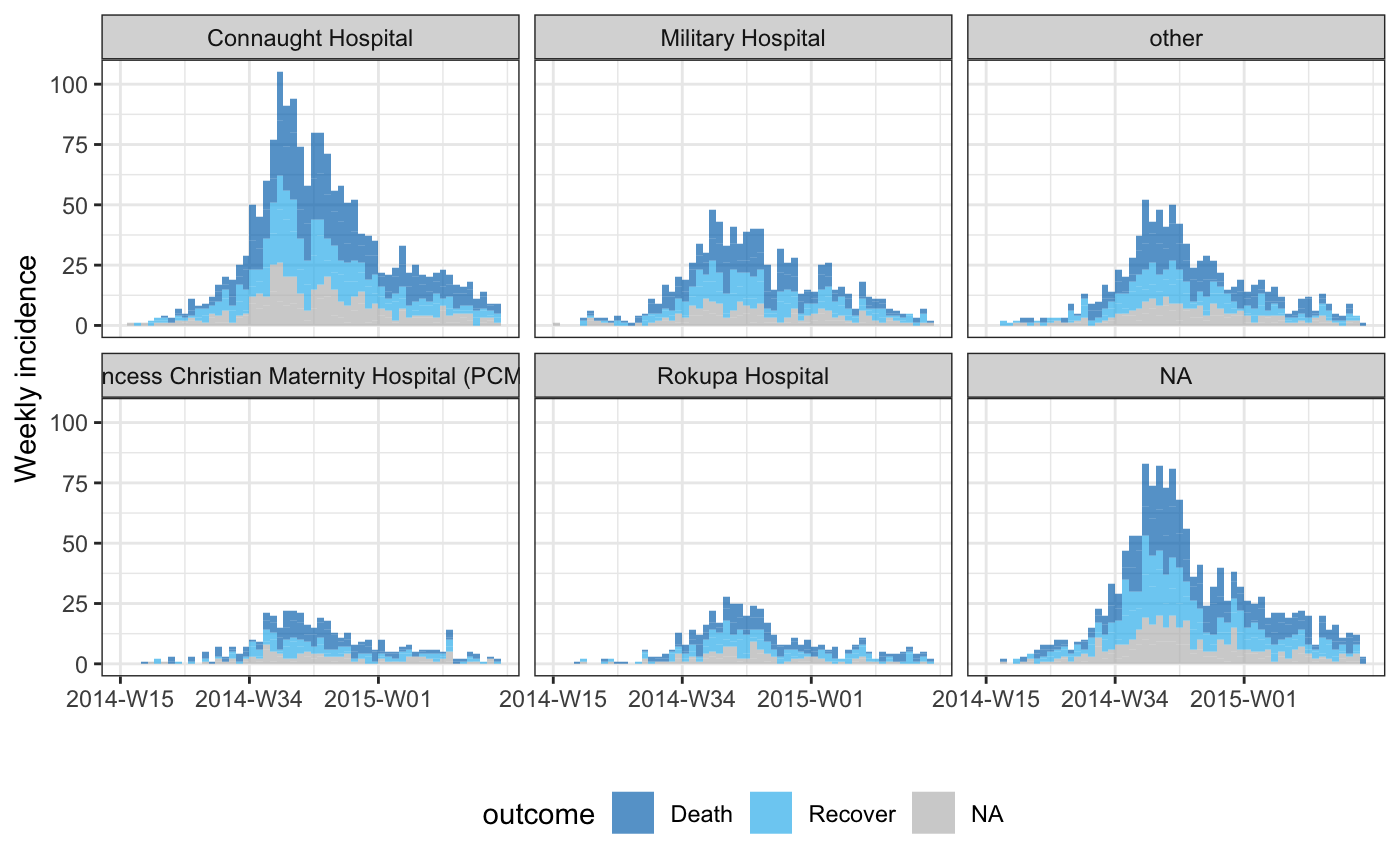
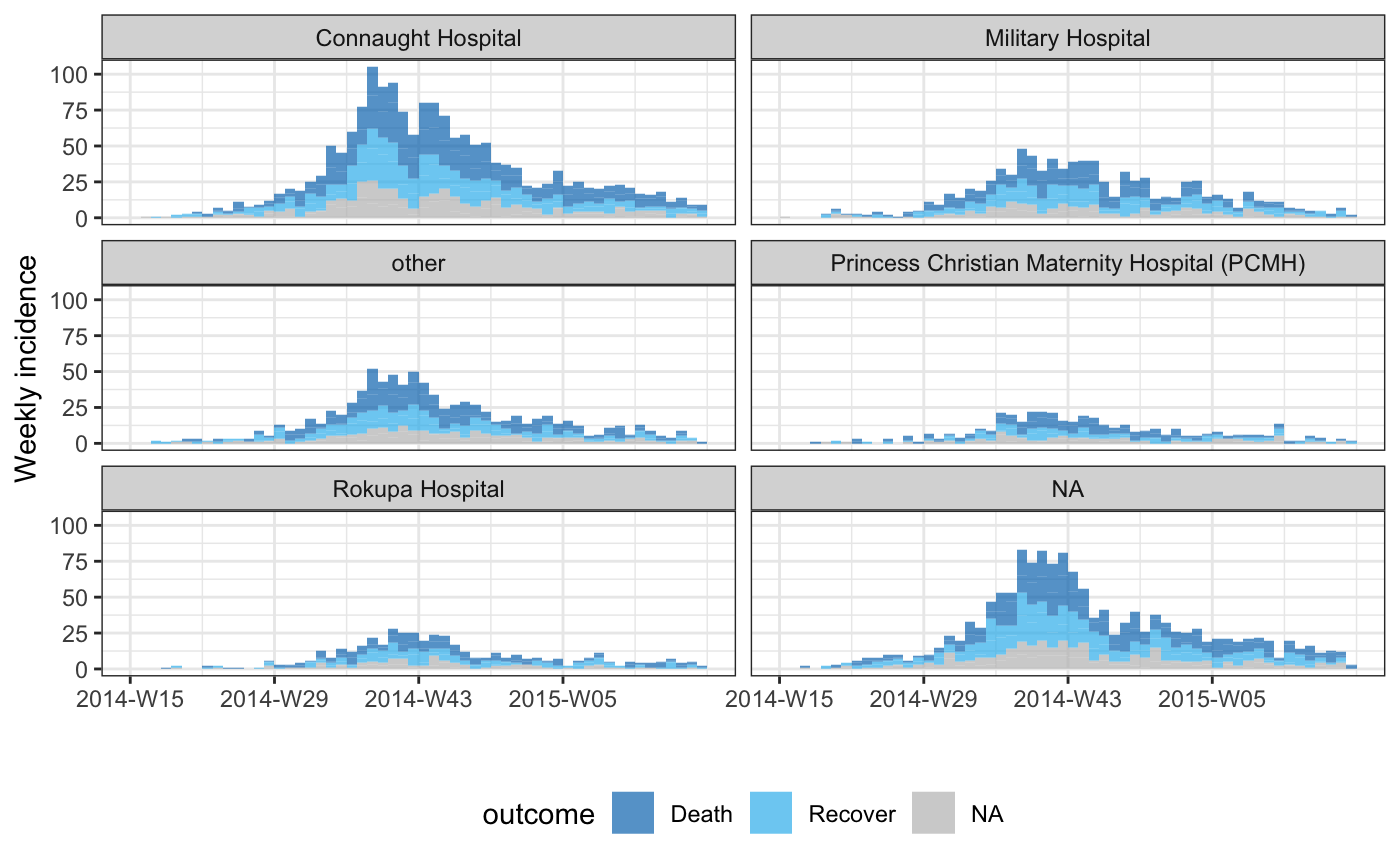
Built site for incidence2: 0.0.0.9000@1dfca8b

diff --git a/articles/Introduction.html b/articles/Introduction.html
@@ -200,7 +200,7 @@
 <span class="co">#&gt; timespan: 389 days</span>
 <span class="fu"><a href="https://rdrr.io/r/graphics/plot.default.html">plot</a></span>(<span class="kw">i</span>)
 </pre></div>
-<p><img src="Introduction_files/figure-html/incid1-1.png" width="700"></p>
+<p><img src="Introduction_files/figure-html/incid1-1.png" width="100%"></p>
 <p>The daily incidence is quite noisy, but we can easily compute other incidence using larger time intervals:</p>
 <div class="sourceCode" id="cb4"><pre class="downlit">
 
@@ -208,21 +208,21 @@
 <span class="kw">i_weekly</span> <span class="op">&lt;-</span> <span class="fu"><a href="../reference/incidence.html">incidence</a></span>(<span class="kw">dat</span>, date_index = <span class="kw">date_of_onset</span>, interval = <span class="st">"1 week"</span>)
 <span class="fu"><a href="https://rdrr.io/r/graphics/plot.default.html">plot</a></span>(<span class="kw">i_weekly</span>)
 </pre></div>
-<p><img src="Introduction_files/figure-html/interv-1.png" width="700"></p>
+<p><img src="Introduction_files/figure-html/interv-1.png" width="100%"></p>
 <div class="sourceCode" id="cb5"><pre class="downlit">
 
 <span class="co"># bi-weekly, starting on Saturday</span>
 <span class="kw">i_biweekly</span> <span class="op">&lt;-</span> <span class="fu"><a href="../reference/incidence.html">incidence</a></span>(<span class="kw">dat</span>, date_index = <span class="kw">date_of_onset</span>, interval = <span class="st">"2 saturday weeks"</span>)
 <span class="fu"><a href="https://rdrr.io/r/graphics/plot.default.html">plot</a></span>(<span class="kw">i_biweekly</span>, color = <span class="st">"white"</span>)
 </pre></div>
-<p><img src="Introduction_files/figure-html/interv-2.png" width="700"></p>
+<p><img src="Introduction_files/figure-html/interv-2.png" width="100%"></p>
 <div class="sourceCode" id="cb6"><pre class="downlit">
 
 <span class="co">## monthly</span>
 <span class="kw">i_monthly</span> <span class="op">&lt;-</span> <span class="fu"><a href="../reference/incidence.html">incidence</a></span>(<span class="kw">dat</span>, date_index = <span class="kw">date_of_onset</span>, interval = <span class="st">"1 month"</span>)
 <span class="fu"><a href="https://rdrr.io/r/graphics/plot.default.html">plot</a></span>(<span class="kw">i_monthly</span>, color = <span class="st">"white"</span>)
 </pre></div>
-<p><img src="Introduction_files/figure-html/interv-3.png" width="700"></p>
+<p><img src="Introduction_files/figure-html/interv-3.png" width="100%"></p>
 </div>
 <div id="grouping" class="section level2">
 <h2 class="hasAnchor">
@@ -268,21 +268,21 @@
 <span class="co"># A singular plot</span>
 <span class="fu"><a href="https://rdrr.io/r/graphics/plot.default.html">plot</a></span>(<span class="kw">i_weekly_sex</span>, fill = <span class="kw">gender</span>)
 </pre></div>
-<p><img src="Introduction_files/figure-html/gender-1.png" width="700"></p>
+<p><img src="Introduction_files/figure-html/gender-1.png" width="100%"></p>
 <div class="sourceCode" id="cb8"><pre class="downlit">
 
 <span class="co"># a multi-facet plot</span>
 <span class="fu"><a href="../reference/rotate_and_scale.html">facet_plot</a></span>(<span class="kw">i_weekly_sex</span>, fill = <span class="kw">gender</span>, color = <span class="st">"white"</span>, )
 </pre></div>
-<p><img src="Introduction_files/figure-html/gender-2.png" width="700"></p>
+<p><img src="Introduction_files/figure-html/gender-2.png" width="100%"></p>
 <p>There is no limit to the number of groups that we group by and this allows us to both facet and fill by different variables:</p>
 <div class="sourceCode" id="cb9"><pre class="downlit">
 <span class="kw">inci</span> <span class="op">&lt;-</span> <span class="fu"><a href="../reference/incidence.html">incidence</a></span>(<span class="kw">dat</span>, date_index = <span class="kw">date_of_onset</span>,
                      interval = <span class="st">"1 week"</span>, groups = <span class="fu"><a href="https://rdrr.io/r/base/c.html">c</a></span>(<span class="kw">outcome</span>, <span class="kw">hospital</span>, <span class="kw">gender</span>))
 <span class="kw">inci</span> <span class="op">%&gt;%</span> 
-  <span class="fu"><a href="../reference/rotate_and_scale.html">facet_plot</a></span>(facet = <span class="kw">hospital</span>, fill = <span class="kw">outcome</span>)
+  <span class="fu"><a href="../reference/rotate_and_scale.html">facet_plot</a></span>(facets = <span class="kw">hospital</span>, fill = <span class="kw">outcome</span>, n_breaks = <span class="fl">4</span>, nrow = <span class="fl">3</span>)
 </pre></div>
-<p><img src="Introduction_files/figure-html/outcome_hospital-1.png" width="700"></p>
+<p><img src="Introduction_files/figure-html/outcome_hospital-1.png" width="100%"></p>
 </div>
 </div>
   </div>

diff --git a/articles/handling_incidence_objects.html b/articles/handling_incidence_objects.html
@@ -194,7 +194,7 @@
   <span class="fu"><a href="../reference/cumulate.html">cumulate</a></span>() <span class="op">%&gt;%</span> 
   <span class="fu"><a href="../reference/rotate_and_scale.html">facet_plot</a></span>(facet = <span class="kw">hospital</span>)
 </pre></div>
-<p><img src="handling_incidence_objects_files/figure-html/cumulate-1.png" width="700"></p>
+<p><img src="handling_incidence_objects_files/figure-html/cumulate-1.png" width="100%"></p>
 </div>
 <div id="tidyverse-compatibility" class="section level2">
 <h2 class="hasAnchor">
@@ -252,16 +252,16 @@
 <span class="co">#&gt; </span>
 <span class="co">#&gt;    bin_date   date_group hospital                                   gender count</span>
 <span class="co">#&gt;    &lt;date&gt;     &lt;aweek&gt;    &lt;fct&gt;                                      &lt;fct&gt;  &lt;int&gt;</span>
-<span class="co">#&gt;  1 2014-06-02 2014-W23   Rokupa Hospital                            f          1</span>
-<span class="co">#&gt;  2 2014-05-19 2014-W21   other                                      f          1</span>
-<span class="co">#&gt;  3 2014-05-19 2014-W21   Connaught Hospital                         f          3</span>
-<span class="co">#&gt;  4 2014-05-19 2014-W21   other                                      m          3</span>
-<span class="co">#&gt;  5 2014-05-19 2014-W21   Princess Christian Maternity Hospital (PC… m          2</span>
-<span class="co">#&gt;  6 2014-06-02 2014-W23   other                                      f          3</span>
-<span class="co">#&gt;  7 2014-06-02 2014-W23   other                                      m          2</span>
-<span class="co">#&gt;  8 2014-06-02 2014-W23   Military Hospital                          f          1</span>
-<span class="co">#&gt;  9 2014-06-02 2014-W23   &lt;NA&gt;                                       f          7</span>
-<span class="co">#&gt; 10 2014-05-19 2014-W21   Connaught Hospital                         m          4</span>
+<span class="co">#&gt;  1 2014-05-19 2014-W21   Princess Christian Maternity Hospital (PC… f          2</span>
+<span class="co">#&gt;  2 2014-05-19 2014-W21   other                                      m          3</span>
+<span class="co">#&gt;  3 2014-05-19 2014-W21   Connaught Hospital                         m          4</span>
+<span class="co">#&gt;  4 2014-06-02 2014-W23   other                                      f          3</span>
+<span class="co">#&gt;  5 2014-06-02 2014-W23   &lt;NA&gt;                                       m          6</span>
+<span class="co">#&gt;  6 2014-05-19 2014-W21   Military Hospital                          f          2</span>
+<span class="co">#&gt;  7 2014-06-02 2014-W23   Military Hospital                          f          1</span>
+<span class="co">#&gt;  8 2014-05-19 2014-W21   Connaught Hospital                         f          3</span>
+<span class="co">#&gt;  9 2014-06-02 2014-W23   Princess Christian Maternity Hospital (PC… m          0</span>
+<span class="co">#&gt; 10 2014-05-19 2014-W21   Military Hospital                          m          3</span>
 <span class="fu"><a href="https://rdrr.io/r/base/identical.html">identical</a></span>(<span class="fu"><a href="https://rdrr.io/r/base/class.html">class</a></span>(<span class="kw">x</span>), <span class="fu"><a href="https://rdrr.io/r/base/class.html">class</a></span>(<span class="kw">inci</span>))
 <span class="co">#&gt; [1] TRUE</span>
 

diff --git a/index.html b/index.html
@@ -143,8 +143,6 @@
 <ul>
 <li><code><a href="articles/Introduction.html">vignette("Introduction")</a></code></li>
 <li><code><a href="articles/handling_incidence_objects.html">vignette("handling_incidence_objects")</a></code></li>
-<li><code>vignette("customizing_plots")</code></li>
-<li><code>vignette("bootstrapping")</code></li>
 </ul>
 </div>
 <div id="websites" class="section level2">
